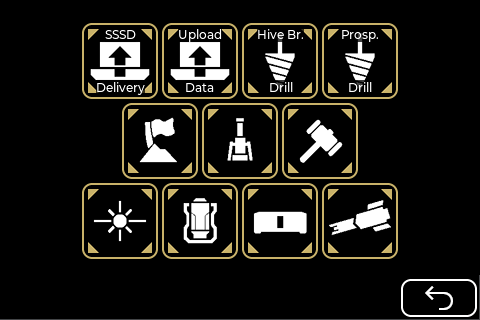
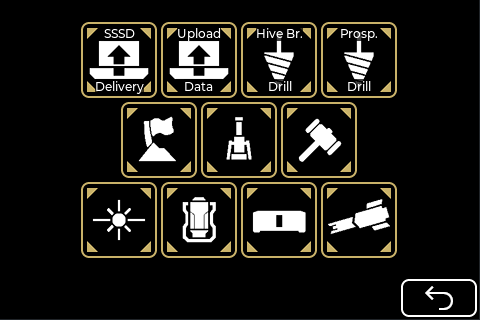
Change components styles to a more unified look

diff --git a/src/ui/screens.c b/src/ui/screens.c
@@ -5741,6 +5741,7 @@ void create_screen_config() {
                                     lv_obj_set_size(obj, 64, 32);
                                     lv_obj_add_event_cb(obj, event_handler_cb_config_chb_flip, LV_EVENT_ALL, flowState);
                                     add_style_switch_config(obj);
+                                    lv_obj_set_style_radius(obj, 32767, LV_PART_INDICATOR | LV_STATE_DEFAULT);
                                 }
                             }
                         }
@@ -5865,6 +5866,7 @@ void create_screen_config() {
                                     lv_dropdown_set_options(obj, "Bluetooth\nUSB");
                                     lv_dropdown_set_selected(obj, 0);
                                     lv_obj_add_event_cb(obj, event_handler_cb_config_dd_connectivity, LV_EVENT_ALL, flowState);
+                                    add_style_dropdown_config(obj);
                                 }
                                 {
                                     // ImgConnection1
@@ -5926,6 +5928,7 @@ void create_screen_config() {
                                     lv_dropdown_set_options(obj, "WASD\nArrows");
                                     lv_dropdown_set_selected(obj, 0);
                                     lv_obj_add_event_cb(obj, event_handler_cb_config_dd_keymap, LV_EVENT_ALL, flowState);
+                                    add_style_dropdown_config(obj);
                                 }
                             }
                         }
@@ -6008,7 +6011,7 @@ void create_screen_config() {
                                     lv_obj_set_style_layout(obj, LV_LAYOUT_FLEX, LV_PART_MAIN | LV_STATE_DEFAULT);
                                     lv_obj_set_style_flex_flow(obj, LV_FLEX_FLOW_ROW_WRAP, LV_PART_MAIN | LV_STATE_DEFAULT);
                                     lv_obj_set_style_bg_opa(obj, 255, LV_PART_MAIN | LV_STATE_DEFAULT);
-                                    lv_obj_set_style_radius(obj, 8, LV_PART_MAIN | LV_STATE_DEFAULT);
+                                    lv_obj_set_style_radius(obj, 4, LV_PART_MAIN | LV_STATE_DEFAULT);
                                     lv_obj_set_style_clip_corner(obj, true, LV_PART_MAIN | LV_STATE_DEFAULT);
                                     lv_obj_set_style_pad_bottom(obj, 8, LV_PART_MAIN | LV_STATE_DEFAULT);
                                     {
@@ -6739,19 +6742,15 @@ void tick_screen_manual() {
 void change_color_theme(uint32_t theme_index) {
     lv_style_set_border_color(get_style_button_std_MAIN_CHECKED(), lv_color_hex(theme_colors[theme_index][1]));
     
-    lv_style_set_border_color(get_style_slider_config_MAIN_DEFAULT(), lv_color_hex(theme_colors[theme_index][0]));
+    lv_style_set_bg_color(get_style_slider_config_INDICATOR_DEFAULT(), lv_color_hex(theme_colors[theme_index][1]));
     
-    lv_style_set_border_color(get_style_slider_config_INDICATOR_DEFAULT(), lv_color_hex(theme_colors[theme_index][1]));
-    
-    lv_style_set_border_color(get_style_slider_config_KNOB_DEFAULT(), lv_color_hex(theme_colors[theme_index][1]));
-    
-    lv_style_set_border_color(get_style_switch_config_MAIN_DEFAULT(), lv_color_hex(theme_colors[theme_index][0]));
+    lv_style_set_bg_color(get_style_slider_config_KNOB_DEFAULT(), lv_color_hex(theme_colors[theme_index][1]));
     
     lv_style_set_border_color(get_style_switch_config_MAIN_CHECKED(), lv_color_hex(theme_colors[theme_index][1]));
     
-    lv_style_set_border_color(get_style_switch_config_KNOB_DEFAULT(), lv_color_hex(theme_colors[theme_index][0]));
+    lv_style_set_bg_color(get_style_switch_config_KNOB_DEFAULT(), lv_color_hex(theme_colors[theme_index][0]));
     
-    lv_style_set_border_color(get_style_switch_config_KNOB_CHECKED(), lv_color_hex(theme_colors[theme_index][1]));
+    lv_style_set_bg_color(get_style_switch_config_KNOB_CHECKED(), lv_color_hex(theme_colors[theme_index][1]));
     
     lv_style_set_text_color(get_style_checkbox_config_INDICATOR_CHECKED(), lv_color_hex(theme_colors[theme_index][1]));
     
@@ -7005,7 +7004,7 @@ extern void remove_style(lv_obj_t *obj, int32_t styleIndex);
 
 static const char *screen_names[] = { "Intro", "Setup", "Preset", "ResetPreset", "Image", "Game", "Mission", "Config", "ResetConfig", "About", "Manual" };
 static const char *object_names[] = { "intro", "setup", "preset", "reset_preset", "image", "game", "mission", "config", "reset_config", "about", "manual", "img_splash", "tab_view_setup", "tab_rifle", "weapons_mg", "weapons_hmg", "weapons_sw", "weapons_ac", "weapons_amr", "weapons_rg", "weapons_lc", "weapons_qc", "weapons_at", "weapons_e", "weapons_sg", "weapons_mxg", "tab_special", "obj0", "weapons_arl", "weapons_c", "weapons_eat", "weapons_en", "weapons_rr", "obj1", "obj2", "weapons_eatl", "weapons_spr", "weapons_wsp", "weapons_gl", "obj3", "weapons_bfgl", "weapons_de", "weapons_ste", "weapons_ft", "weapons_dt", "tab_backpack", "obj4", "backpack_bsb", "backpack_sgp", "backpack_ds", "backpack_gd", "backpack_gdb", "obj5", "obj6", "backpack_gdr", "backpack_gdk", "backpack_gdhd", "backpack_sup", "obj7", "backpack_ph", "backpack_c4_p", "backpack_jp", "backpack_hp", "backpack_wp", "tab_supply", "obj8", "supply_frv", "supply_bmk", "supply_pe", "supply_ee", "obj9", "supply_otf", "supply_cqc", "supply_ss", "tab_sentry", "obj10", "sentry_mgs", "sentry_gs", "sentry_acs", "sentry_hmge", "sentry_ate", "obj11", "sentry_fs", "sentry_ms", "sentry_rs", "sentry_ems", "sentry_ls", "tab_ground", "obj12", "ground_gm", "ground_tt", "ground_sgr", "ground_apm", "obj13", "ground_atm", "ground_im", "ground_gb", "tab_strike", "strike120", "strike380", "strike_ors", "strike_ogb", "strike_oas", "strike_ol", "strike_ops", "strike_owb", "strike_oes", "strike_onb", "strike_ogs", "strike_oss", "tab_eagle", "obj14", "eagle110", "eagle500", "eagle_a", "eagle_cb", "obj15", "eagle_sr", "eagle_na", "eagle_ss", "obj16", "obj17", "obj18", "obj19", "obj20", "btn_preset1", "btn_preset2", "btn_preset3", "btn_preset4", "btn_preset5", "btn_preset6", "obj21", "btn_preset_image", "obj22", "obj23", "obj24", "obj25", "obj26", "obj27", "obj28", "obj29", "obj30", "obj31", "obj32", "obj33", "obj34", "obj35", "obj36", "obj37", "obj38", "obj39", "obj40", "obj41", "btn_reinforce", "btn_resupply", "btn_sos", "btn_rearm", "custom_stratagem1", "custom_stratagem2", "custom_stratagem3", "custom_stratagem4", "custom_stratagem5", "custom_stratagem6", "btn_seaf", "btn_hellbomb", "obj42", "obj43", "btn_sssd", "btn_ud", "btn_hbd", "btn_pd", "btn_sef", "btn_td", "btn_sp", "btn_oif", "btn_dfv", "btn_cc", "btn_csd", "obj44", "tab_view_config", "sld_brightness", "chb_flip", "chb_mute", "sld_delay", "dd_connectivity", "obj45", "dd_keymap", "chb_cooldowns", "chb_ship_mod_srp", "chb_ship_mod_ma", "chb_ship_mod_hc", "chb_ship_mod_zbl", "chb_ship_mod_lvc", "chb_ship_mod_ss", "chb_ship_mod_tsu", "chb_ship_mod_rls", "chb_ship_mod_dt", "chb_auto_complete", "obj46", "obj47", "obj48", "obj49", "obj50", "obj51", "obj52", "manual_arrow_up", "manual_arrow_left", "manual_arrow_right", "manual_arrow_down", "obj53", "cnt_progress", "bar_amount", "label_amount", "msg_box", "msg_label", "label_cooldown1", "label_cooldown2", "label_cooldown3", "label_cooldown4", "label_cooldown5", "label_cooldown6", "img_connection2", "obj54", "obj55", "obj56", "obj57", "obj58", "obj59", "obj60", "obj61", "obj62", "lbl_brightness", "lbl_delay", "img_connection1", "obj63", "lbl_version", "obj64", "obj65", "obj66", "manual_preview_item", "manual_cmd1", "manual_cmd2", "manual_cmd3", "manual_cmd4", "manual_cmd5", "manual_cmd6", "manual_cmd7", "manual_cmd8", "manual_cmd9" };
-static const char *style_names[] = { "ButtonStd", "TabStratagem", "TabConfig", "SliderConfig", "SwitchConfig", "LabelCooldown", "CheckboxConfig" };
+static const char *style_names[] = { "ButtonStd", "TabStratagem", "TabConfig", "SliderConfig", "SwitchConfig", "LabelCooldown", "CheckboxConfig", "DropdownConfig" };
 static const char *theme_names[] = { "Default" };
 
 uint32_t theme_colors[1][6] = {

diff --git a/src/ui/styles.c b/src/ui/styles.c
@@ -13,6 +13,7 @@ void init_style_button_std_MAIN_DEFAULT(lv_style_t *style) {
     lv_style_set_bg_color(style, lv_color_hex(0xff000000));
     lv_style_set_border_color(style, lv_color_hex(0xffffffff));
     lv_style_set_border_width(style, 2);
+    lv_style_set_radius(style, 8);
 };
 
 lv_style_t *get_style_button_std_MAIN_DEFAULT() {
@@ -148,9 +149,9 @@ void remove_style_tab_config(lv_obj_t *obj) {
 //
 
 void init_style_slider_config_MAIN_DEFAULT(lv_style_t *style) {
-    lv_style_set_border_width(style, 2);
-    lv_style_set_border_color(style, lv_color_hex(theme_colors[eez_flow_get_selected_theme_index()][0]));
-    lv_style_set_bg_color(style, lv_color_hex(0xff000000));
+    lv_style_set_radius(style, 4);
+    lv_style_set_bg_color(style, lv_color_hex(0xff282b30));
+    lv_style_set_bg_opa(style, 255);
 };
 
 lv_style_t *get_style_slider_config_MAIN_DEFAULT() {
@@ -164,9 +165,9 @@ lv_style_t *get_style_slider_config_MAIN_DEFAULT() {
 };
 
 void init_style_slider_config_INDICATOR_DEFAULT(lv_style_t *style) {
-    lv_style_set_bg_color(style, lv_color_hex(0xff000000));
-    lv_style_set_border_color(style, lv_color_hex(theme_colors[eez_flow_get_selected_theme_index()][1]));
-    lv_style_set_border_width(style, 2);
+    lv_style_set_radius(style, 4);
+    lv_style_set_bg_color(style, lv_color_hex(theme_colors[eez_flow_get_selected_theme_index()][1]));
+    lv_style_set_bg_opa(style, 127);
 };
 
 lv_style_t *get_style_slider_config_INDICATOR_DEFAULT() {
@@ -180,13 +181,12 @@ lv_style_t *get_style_slider_config_INDICATOR_DEFAULT() {
 };
 
 void init_style_slider_config_KNOB_DEFAULT(lv_style_t *style) {
-    lv_style_set_bg_color(style, lv_color_hex(0xff000000));
-    lv_style_set_border_color(style, lv_color_hex(theme_colors[eez_flow_get_selected_theme_index()][1]));
-    lv_style_set_border_width(style, 2);
-    lv_style_set_pad_top(style, 8);
+    lv_style_set_bg_color(style, lv_color_hex(theme_colors[eez_flow_get_selected_theme_index()][1]));
     lv_style_set_pad_bottom(style, 8);
     lv_style_set_pad_left(style, 8);
     lv_style_set_pad_right(style, 8);
+    lv_style_set_radius(style, 8);
+    lv_style_set_pad_top(style, 8);
 };
 
 lv_style_t *get_style_slider_config_KNOB_DEFAULT() {
@@ -218,9 +218,8 @@ void remove_style_slider_config(lv_obj_t *obj) {
 //
 
 void init_style_switch_config_MAIN_DEFAULT(lv_style_t *style) {
-    lv_style_set_bg_color(style, lv_color_hex(0xff000000));
-    lv_style_set_border_color(style, lv_color_hex(theme_colors[eez_flow_get_selected_theme_index()][0]));
-    lv_style_set_border_width(style, 2);
+    lv_style_set_bg_color(style, lv_color_hex(0xff282b30));
+    lv_style_set_radius(style, 8);
 };
 
 lv_style_t *get_style_switch_config_MAIN_DEFAULT() {
@@ -248,9 +247,8 @@ lv_style_t *get_style_switch_config_MAIN_CHECKED() {
 };
 
 void init_style_switch_config_KNOB_DEFAULT(lv_style_t *style) {
-    lv_style_set_bg_color(style, lv_color_hex(0xff000000));
-    lv_style_set_border_color(style, lv_color_hex(theme_colors[eez_flow_get_selected_theme_index()][0]));
-    lv_style_set_border_width(style, 2);
+    lv_style_set_bg_color(style, lv_color_hex(theme_colors[eez_flow_get_selected_theme_index()][0]));
+    lv_style_set_radius(style, 8);
 };
 
 lv_style_t *get_style_switch_config_KNOB_DEFAULT() {
@@ -264,7 +262,7 @@ lv_style_t *get_style_switch_config_KNOB_DEFAULT() {
 };
 
 void init_style_switch_config_KNOB_CHECKED(lv_style_t *style) {
-    lv_style_set_border_color(style, lv_color_hex(theme_colors[eez_flow_get_selected_theme_index()][1]));
+    lv_style_set_bg_color(style, lv_color_hex(theme_colors[eez_flow_get_selected_theme_index()][1]));
 };
 
 lv_style_t *get_style_switch_config_KNOB_CHECKED() {
@@ -291,6 +289,20 @@ lv_style_t *get_style_switch_config_INDICATOR_CHECKED() {
     return style;
 };
 
+void init_style_switch_config_INDICATOR_DEFAULT(lv_style_t *style) {
+    lv_style_set_radius(style, 8);
+};
+
+lv_style_t *get_style_switch_config_INDICATOR_DEFAULT() {
+    static lv_style_t *style;
+    if (!style) {
+        style = lv_mem_alloc(sizeof(lv_style_t));
+        lv_style_init(style);
+        init_style_switch_config_INDICATOR_DEFAULT(style);
+    }
+    return style;
+};
+
 void add_style_switch_config(lv_obj_t *obj) {
     (void)obj;
     lv_obj_add_style(obj, get_style_switch_config_MAIN_DEFAULT(), LV_PART_MAIN | LV_STATE_DEFAULT);
@@ -298,6 +310,7 @@ void add_style_switch_config(lv_obj_t *obj) {
     lv_obj_add_style(obj, get_style_switch_config_KNOB_DEFAULT(), LV_PART_KNOB | LV_STATE_DEFAULT);
     lv_obj_add_style(obj, get_style_switch_config_KNOB_CHECKED(), LV_PART_KNOB | LV_STATE_CHECKED);
     lv_obj_add_style(obj, get_style_switch_config_INDICATOR_CHECKED(), LV_PART_INDICATOR | LV_STATE_CHECKED);
+    lv_obj_add_style(obj, get_style_switch_config_INDICATOR_DEFAULT(), LV_PART_INDICATOR | LV_STATE_DEFAULT);
 };
 
 void remove_style_switch_config(lv_obj_t *obj) {
@@ -307,6 +320,7 @@ void remove_style_switch_config(lv_obj_t *obj) {
     lv_obj_remove_style(obj, get_style_switch_config_KNOB_DEFAULT(), LV_PART_KNOB | LV_STATE_DEFAULT);
     lv_obj_remove_style(obj, get_style_switch_config_KNOB_CHECKED(), LV_PART_KNOB | LV_STATE_CHECKED);
     lv_obj_remove_style(obj, get_style_switch_config_INDICATOR_CHECKED(), LV_PART_INDICATOR | LV_STATE_CHECKED);
+    lv_obj_remove_style(obj, get_style_switch_config_INDICATOR_DEFAULT(), LV_PART_INDICATOR | LV_STATE_DEFAULT);
 };
 
 //
@@ -359,6 +373,7 @@ void init_style_checkbox_config_INDICATOR_DEFAULT(lv_style_t *style) {
     lv_style_set_pad_bottom(style, 4);
     lv_style_set_pad_left(style, 4);
     lv_style_set_pad_right(style, 4);
+    lv_style_set_radius(style, 4);
 };
 
 lv_style_t *get_style_checkbox_config_INDICATOR_DEFAULT() {
@@ -419,6 +434,34 @@ void remove_style_checkbox_config(lv_obj_t *obj) {
 };
 
 //
+// Style: DropdownConfig
+//
+
+void init_style_dropdown_config_MAIN_DEFAULT(lv_style_t *style) {
+    lv_style_set_radius(style, 4);
+};
+
+lv_style_t *get_style_dropdown_config_MAIN_DEFAULT() {
+    static lv_style_t *style;
+    if (!style) {
+        style = lv_mem_alloc(sizeof(lv_style_t));
+        lv_style_init(style);
+        init_style_dropdown_config_MAIN_DEFAULT(style);
+    }
+    return style;
+};
+
+void add_style_dropdown_config(lv_obj_t *obj) {
+    (void)obj;
+    lv_obj_add_style(obj, get_style_dropdown_config_MAIN_DEFAULT(), LV_PART_MAIN | LV_STATE_DEFAULT);
+};
+
+void remove_style_dropdown_config(lv_obj_t *obj) {
+    (void)obj;
+    lv_obj_remove_style(obj, get_style_dropdown_config_MAIN_DEFAULT(), LV_PART_MAIN | LV_STATE_DEFAULT);
+};
+
+//
 //
 //
 
@@ -432,6 +475,7 @@ void add_style(lv_obj_t *obj, int32_t styleIndex) {
         add_style_switch_config,
         add_style_label_cooldown,
         add_style_checkbox_config,
+        add_style_dropdown_config,
     };
     add_style_funcs[styleIndex](obj);
 }
@@ -446,6 +490,7 @@ void remove_style(lv_obj_t *obj, int32_t styleIndex) {
         remove_style_switch_config,
         remove_style_label_cooldown,
         remove_style_checkbox_config,
+        remove_style_dropdown_config,
     };
     remove_style_funcs[styleIndex](obj);
 }

diff --git a/src/ui/styles.h b/src/ui/styles.h
@@ -37,6 +37,7 @@ lv_style_t *get_style_switch_config_MAIN_CHECKED();
 lv_style_t *get_style_switch_config_KNOB_DEFAULT();
 lv_style_t *get_style_switch_config_KNOB_CHECKED();
 lv_style_t *get_style_switch_config_INDICATOR_CHECKED();
+lv_style_t *get_style_switch_config_INDICATOR_DEFAULT();
 void add_style_switch_config(lv_obj_t *obj);
 void remove_style_switch_config(lv_obj_t *obj);
 
@@ -51,6 +52,11 @@ lv_style_t *get_style_checkbox_config_INDICATOR_CHECKED();
 lv_style_t *get_style_checkbox_config_MAIN_DEFAULT();
 void add_style_checkbox_config(lv_obj_t *obj);
 void remove_style_checkbox_config(lv_obj_t *obj);
+
+// Style: DropdownConfig
+lv_style_t *get_style_dropdown_config_MAIN_DEFAULT();
+void add_style_dropdown_config(lv_obj_t *obj);
+void remove_style_dropdown_config(lv_obj_t *obj);
 
 
 
